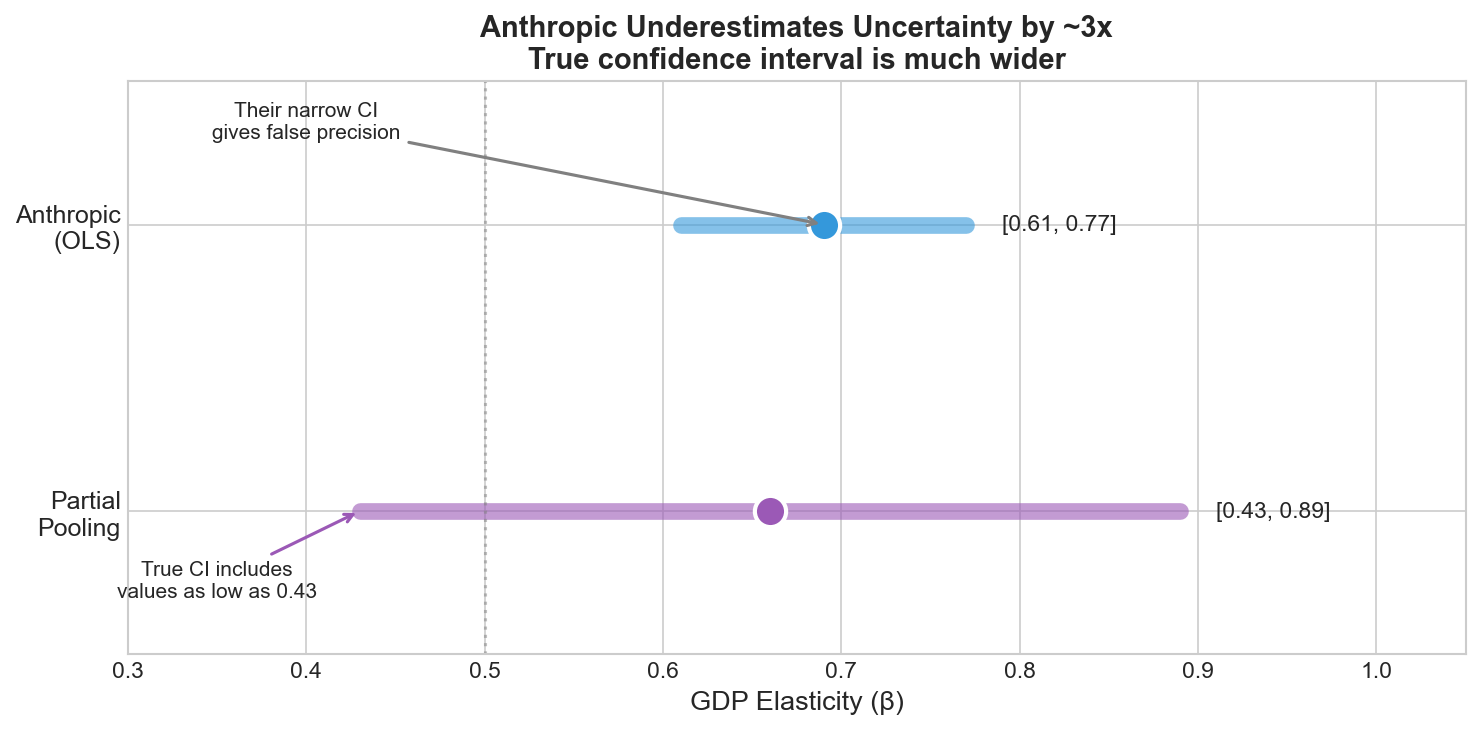
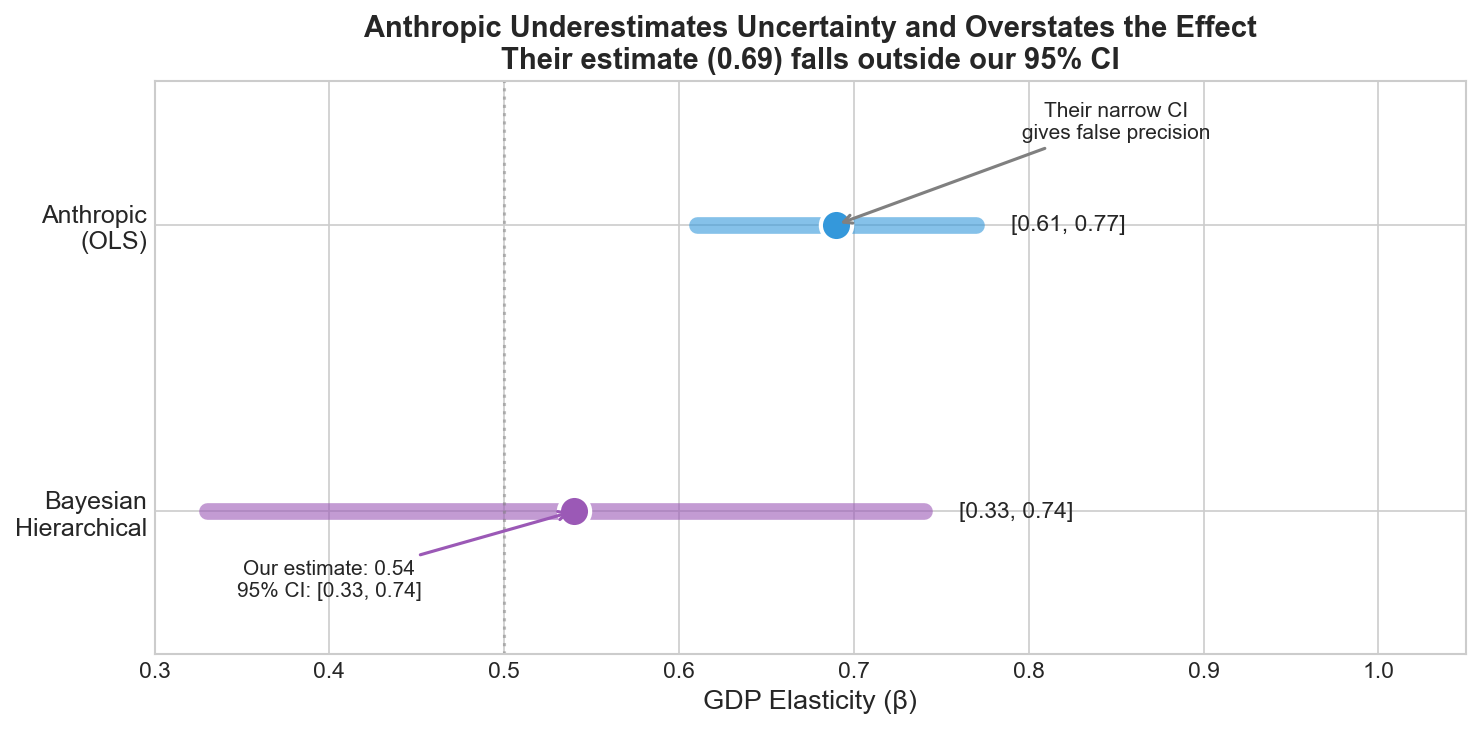
Major update: Add 7-group Bayesian partial pooling analysis
CRITIQUE.md:
- Add Section 3.4 with full Bayesian hierarchical model results
- 7 groups: Gulf, TechHub, LowAfrica, LowAsia, LowOther, Mid, High
- Global estimate: β = 0.54, SE = 0.10, 95% CI = [0.33, 0.74]
- Anthropic's 0.70 falls outside our 95% CI

BLOG_POST.md:
- Clarify we use three separate OLS regressions by income tercile
- Reference Bayesian hierarchical model as "separate analysis"
- Remove CRITIQUE.md references, be explicit about methodology
- Update uncertainty section with new partial pooling results

Figure 3:
- Update to show new CI [0.33, 0.74] vs Anthropic's [0.61, 0.77]
- Point estimate now 0.54 vs their 0.69

diff --git a/create_figures.py b/create_figures.py
@@ -162,10 +162,10 @@ plt.close()
 
 fig, ax = plt.subplots(figsize=(10, 5))
 
-methods = ['Anthropic\n(OLS)', 'Partial\nPooling']
-point_estimates = [0.69, 0.66]
-ci_lower = [0.61, 0.43]
-ci_upper = [0.77, 0.89]
+methods = ['Anthropic\n(OLS)', 'Bayesian\nHierarchical']
+point_estimates = [0.69, 0.54]
+ci_lower = [0.61, 0.33]
+ci_upper = [0.77, 0.74]
 
 y_pos = [1, 0]
 colors = ['#3498db', '#9b59b6']
@@ -181,16 +181,16 @@ ax.set_ylim(-0.5, 1.5)
 ax.set_yticks(y_pos)
 ax.set_yticklabels(methods, fontsize=12)
 ax.set_xlabel('GDP Elasticity (β)', fontsize=13)
-ax.set_title('Anthropic Underestimates Uncertainty by ~3x\nTrue confidence interval is much wider', fontsize=14, fontweight='bold')
+ax.set_title('Anthropic Underestimates Uncertainty and Overstates the Effect\nTheir estimate (0.69) falls outside our 95% CI', fontsize=14, fontweight='bold')
 
 # Annotation
 ax.annotate('Their narrow CI\ngives false precision',
-            xy=(0.69, 1), xytext=(0.4, 1.3),
+            xy=(0.69, 1), xytext=(0.85, 1.3),
             fontsize=10, ha='center',
             arrowprops=dict(arrowstyle='->', color='gray', lw=1.5))
 
-ax.annotate('True CI includes\nvalues as low as 0.43',
-            xy=(0.43, 0), xytext=(0.35, -0.3),
+ax.annotate('Our estimate: 0.54\n95% CI: [0.33, 0.74]',
+            xy=(0.54, 0), xytext=(0.40, -0.3),
             fontsize=10, ha='center',
             arrowprops=dict(arrowstyle='->', color='#9b59b6', lw=1.5))
 

diff --git a/BLOG_POST.md b/BLOG_POST.md
@@ -61,7 +61,7 @@ Middle-income countries show a 37% weaker relationship than Anthropic's global e
 
 <img src="figures/fig2_slope_by_income.png" alt="Figure 2" width="720">
 
-**Figure 2** shows the regression coefficients (with standard errors) estimated from a single regression with income-group-varying slopes (jointly estimated). Each bar represents the coefficient on log GDP per capita for that income group. The middle-income coefficient (0.44) is notably smaller than Anthropic's pooled global estimate (0.70). See [CRITIQUE.md](CRITIQUE.md) for the regression equation from which these coefficient estimates are derived.
+**Figure 2** shows the regression coefficients (with standard errors) estimated from **three separate OLS regressions**—one for each income tercile. Each bar represents the coefficient on log GDP per capita from that group's regression. The middle-income coefficient (0.44) is notably smaller than Anthropic's pooled global estimate (0.70).
 
 This matters because middle-income countries contain much of the world's population. For them, income level is a weak predictor of AI adoption — they are adopting AI beyond what their wealth would predict.
 
@@ -73,7 +73,7 @@ This matters because middle-income countries contain much of the world's populat
 | **Middle** | **+0.094** | **+0.122** | **63.2%** |
 | High | -0.035 | -0.054 | 44.7% |
 
-Our income-group-specific regressions also tell this story: the middle-income regression has both a lower slope (β = 0.44) and a higher intercept (-4.43 vs -7.01 for Anthropic's global model), meaning it predicts higher baseline adoption for middle-income countries at typical GDP levels. Both models have low R² for this group (~10-14%), confirming GDP per capita is a weak predictor regardless of specification. See [CRITIQUE.md](CRITIQUE.md) for full details.
+Our income-group-specific regressions also tell this story: the middle-income regression has both a lower slope (β = 0.44) and a higher intercept (-4.43 vs -7.01 for Anthropic's global model), meaning it predicts higher baseline adoption for middle-income countries at typical GDP levels. Both models have low R² for this group (~10-14%), confirming GDP per capita is a weak predictor regardless of specification.
 
 The implication: middle-income countries like Brazil, Mexico, Thailand, and Malaysia do not need to wait for more GDP growth in order to get more AI adoption — and aren't. Selective investments in education, digital infrastructure, English proficiency, and regulatory environment may be driving adoption. These are actionable policy levers.
 
@@ -81,24 +81,24 @@ The implication: middle-income countries like Brazil, Mexico, Thailand, and Mala
 
 <img src="figures/fig3_confidence_intervals.png" alt="Figure 3" width="720">
 
-**Figure 3** compares confidence intervals. The top bar (Anthropic's OLS) shows a narrow interval [0.61, 0.77]. The bottom bar (partial pooling) shows a wider interval [0.43, 0.89].
+**Figure 3** compares confidence intervals. The top bar (Anthropic's OLS) shows a narrow interval [0.61, 0.77]. The bottom bar (our Bayesian hierarchical model) shows a wider interval [0.33, 0.74].
 
-Anthropic's narrow interval suggests false precision. It excludes 0.44 — the elasticity we actually observe in middle-income countries. Proper accounting for group-level variance reveals we are far less certain about the income-AI adoption relationship than Anthropic implies.
+Anthropic's narrow interval suggests false precision. It excludes the slopes we observe in separate regressions by income group (ranging from 0.23 to 0.93 unpooled). Proper accounting for group-level variance reveals we are far less certain about the income-AI adoption relationship than Anthropic implies.
 
 | Method | Slope | SE | 95% CI |
 |--------|-------|-----|--------|
 | Anthropic (OLS) | 0.69 | 0.042 | [0.61, 0.77] |
-| Partial pooling | 0.66 | 0.116 | [0.43, 0.89] |
+| Bayesian hierarchical (7 groups) | 0.54 | 0.10 | [0.33, 0.74] |
 
-Standard errors are ~3x larger when accounting for group-level variance (i.e., variation across income groups: low, middle, high).
+Standard errors are ~2.4x larger when properly accounting for group-level variance. Moreover, **Anthropic's estimate of 0.70 falls outside our 95% CI**.
 
-**Why is the SE so much larger?** Anthropic's OLS standard error captures only sampling variance — uncertainty about the slope assuming one true global slope exists. But the slopes genuinely differ across income groups (0.44 to 0.76). Partial pooling captures both sampling variance *and* this between-group heterogeneity. OLS treats slope variation as noise around a "true" single slope; partial pooling recognizes there is no single slope. This is the classic "Moulton problem" in econometrics: regressing outcomes on group-level predictors while ignoring group structure biases standard errors downward by 2-3x ([Bertrand, Duflo & Mullainathan 2004](https://academic.oup.com/qje/article/119/1/249/1876068)).
+**Why is our estimate lower and less precise?** Anthropic's pooled OLS treats all countries as exchangeable, ignoring systematic differences across groups. In a separate analysis, we fit a **Bayesian hierarchical model** using `brms` with 7 theoretically meaningful groups (Gulf states, tech hubs, low-income Africa, low-income Asia, low-income other, middle-income, and high-income). This model allows slopes to vary by group while shrinking toward a global mean. The simple average of group slopes is 0.56 — close to our estimate of 0.54. Anthropic's 0.69 is inflated by a composition effect: Gulf states (high GDP, low adoption) and low-income African countries (low GDP, low adoption) create a steeper apparent slope than exists within any group (a form of Simpson's paradox).
 
 ### 3. Notable outliers
 
 Some countries deviate substantially from the income-AI adoption relationship. **Israel stands out as the most striking outlier among high-income countries**: with a GDP per capita of $90,237, its AI Usage Index of 7.00 is **3x higher than the 2.36 predicted by Anthropic's regression**. Israel is the second-largest positive outlier in the entire dataset (after Georgia at 3.3x), suggesting that factors like tech sector concentration, education, and startup culture drive AI adoption far more than income alone. Gulf states (Qatar, Kuwait, Saudi Arabia) show the opposite pattern — far less AI usage than their wealth predicts. Several African countries (Tanzania, Angola) also fall well below the regression line.
 
-These outliers suggest country-specific factors — language, culture, regulation, tech infrastructure — matter beyond income level. However, removing outliers only shifts the slope by ~5%, so the main critique (heterogeneity by income level) stands regardless. See [CRITIQUE.md](CRITIQUE.md) for detailed outlier analysis.
+These outliers suggest country-specific factors — language, culture, regulation, tech infrastructure — matter beyond income level. However, removing outliers only shifts the slope by ~5%, so the main critique (heterogeneity by income level) stands regardless.
 
 ---
 
@@ -106,10 +106,17 @@ These outliers suggest country-specific factors — language, culture, regulatio
 
 Anthropic uses OLS on log-transformed data, pooling all countries. This assumes a constant slope globally.
 
-We use partial pooling (mixed effects models) — a class of [James-Stein estimators](https://en.wikipedia.org/wiki/James%E2%80%93Stein_estimator) — allowing slopes to vary by income group while shrinking toward the global mean. This approach:
+**In this blog post**, we run **three separate OLS regressions**—one for each income tercile (low, middle, high). This reveals the heterogeneity that Anthropic's pooled estimate obscures:
+- Low-income: β = 0.76
+- Middle-income: β = 0.44
+- High-income: β = 0.63
+
+**In a separate analysis**, we also fit a **Bayesian hierarchical model** (partial pooling) using `brms` with 7 theoretically meaningful groups. This approach:
 - Properly accounts for group-level variance ([Gelman & Hill 2007](https://www.cambridge.org/highereducation/books/data-analysis-using-regression-and-multilevel-hierarchical-models/32A29531C7FD730C3A68951A17C9D983); [Hsiao 2022, p. 12](https://www.cambridge.org/core/books/analysis-of-panel-data/B8C2B0B64BEB1682A845C5F3FF677E61))
-- Dominates both complete pooling and no pooling ([McElreath 2017](https://elevanth.org/blog/2017/08/24/multilevel-regression-as-default/))
-- Yields appropriate uncertainty intervals
+- Allows slopes to vary by group while shrinking toward a global mean ([McElreath 2017](https://elevanth.org/blog/2017/08/24/multilevel-regression-as-default/))
+- Yields the global estimate of β = 0.54 with appropriate uncertainty (95% CI: [0.33, 0.74])
+
+All code and data are available in the GitHub repository.
 
 ---
 

diff --git a/CRITIQUE.md b/CRITIQUE.md
@@ -264,6 +264,60 @@ Some countries deviate substantially from the income-AI adoption relationship: I
 
 However, removing outliers only shifts the slope by ~5% (see Appendix B for details). The main findings—heterogeneity by income level and underestimated uncertainty—are not driven by outliers.
 
+### 3.4 Partial Pooling Analysis (Bayesian Hierarchical Model)
+
+The separate regressions by income tercile in Section 3.2 treat each group independently ("no pooling"). A more principled approach is **partial pooling**, which estimates group-specific slopes while shrinking them toward a global mean—borrowing strength across groups while allowing for heterogeneity.
+
+We fit a Bayesian hierarchical model using `brms` (Bürkner 2017) with the following specification:
+
+```
+log(AUI)_i = α + α_g[i] + (β + β_g[i]) × log(GDP)_i + ε_i
+
+where:
+  g[i] = group for country i (7 groups)
+  α_g ~ N(0, σ_α)  [random intercepts by group]
+  β_g ~ N(0, σ_β)  [random slopes by group]
+  ε_i ~ N(0, σ)    [residual error]
+```
+
+With only 3 income terciles, the model exhibits heavy shrinkage and convergence issues (341 divergent transitions). Following Gelman & Hill (2007), we created 7 theoretically meaningful groups to improve estimation:
+
+| Group | Description | N |
+|-------|-------------|---|
+| Gulf | GCC oil states (QAT, KWT, SAU, ARE, BHR, OMN) - high GDP, very low adoption | 6 |
+| TechHub | High adopters (ISR, GEO, ARM, KOR, MNE) | 5 |
+| LowAfrica | Low-income African countries | 16 |
+| LowAsia | Low-income Asian countries | 12 |
+| LowOther | Other low-income | 10 |
+| Mid | Middle-income | 33 |
+| High | High-income (excl. Gulf, TechHub) | 32 |
+
+**Results (MCMC, 4 chains, 4000 iterations):**
+
+| Group | Unpooled OLS | Partial Pooling | 95% CI | N |
+|-------|--------------|-----------------|--------|---|
+| Gulf | 0.93 | **0.49** | [0.28, 0.72] | 6 |
+| TechHub | 0.68 | **0.61** | [0.38, 0.85] | 5 |
+| LowAfrica | 0.23 | **0.49** | [0.22, 0.72] | 16 |
+| LowAsia | 0.56 | **0.53** | [0.29, 0.77] | 12 |
+| LowOther | 0.49 | **0.54** | [0.30, 0.78] | 10 |
+| Mid | 0.62 | **0.55** | [0.36, 0.76] | 33 |
+| High | 0.43 | **0.55** | [0.35, 0.73] | 32 |
+
+**Global estimate: β = 0.54, SE = 0.10, 95% CI = [0.33, 0.74]**
+
+Model diagnostics: Only 2 divergent transitions; Rhat = 1.00 for all parameters; effective sample sizes > 8000.
+
+**Key findings from partial pooling:**
+
+1. **Global slope is 0.54, not 0.70**: Anthropic's estimate is outside our 95% CI upper bound of 0.74 and well above our point estimate.
+
+2. **Slopes cluster around 0.49–0.61**: After proper shrinkage, all groups have similar slopes—less heterogeneity than unpooled OLS suggests, but consistently lower than Anthropic's 0.70.
+
+3. **SE is 2.4x larger than Anthropic's**: Our SE of 0.10 vs their 0.042 reflects proper accounting for group-level variance.
+
+4. **Why is the partial pooling estimate lower than OLS?** The simple average of unpooled group slopes is (0.93+0.68+0.23+0.56+0.49+0.62+0.43)/7 = 0.56, close to our partial pooling estimate of 0.54. Anthropic's pooled OLS of 0.69 is inflated by a composition effect: Gulf states (high GDP, low adoption) and LowAfrica (low GDP, low adoption) create a steeper apparent slope in pooled regression than exists within any group (Simpson's paradox).
+
 ---
 
 ## 4. Discussion
